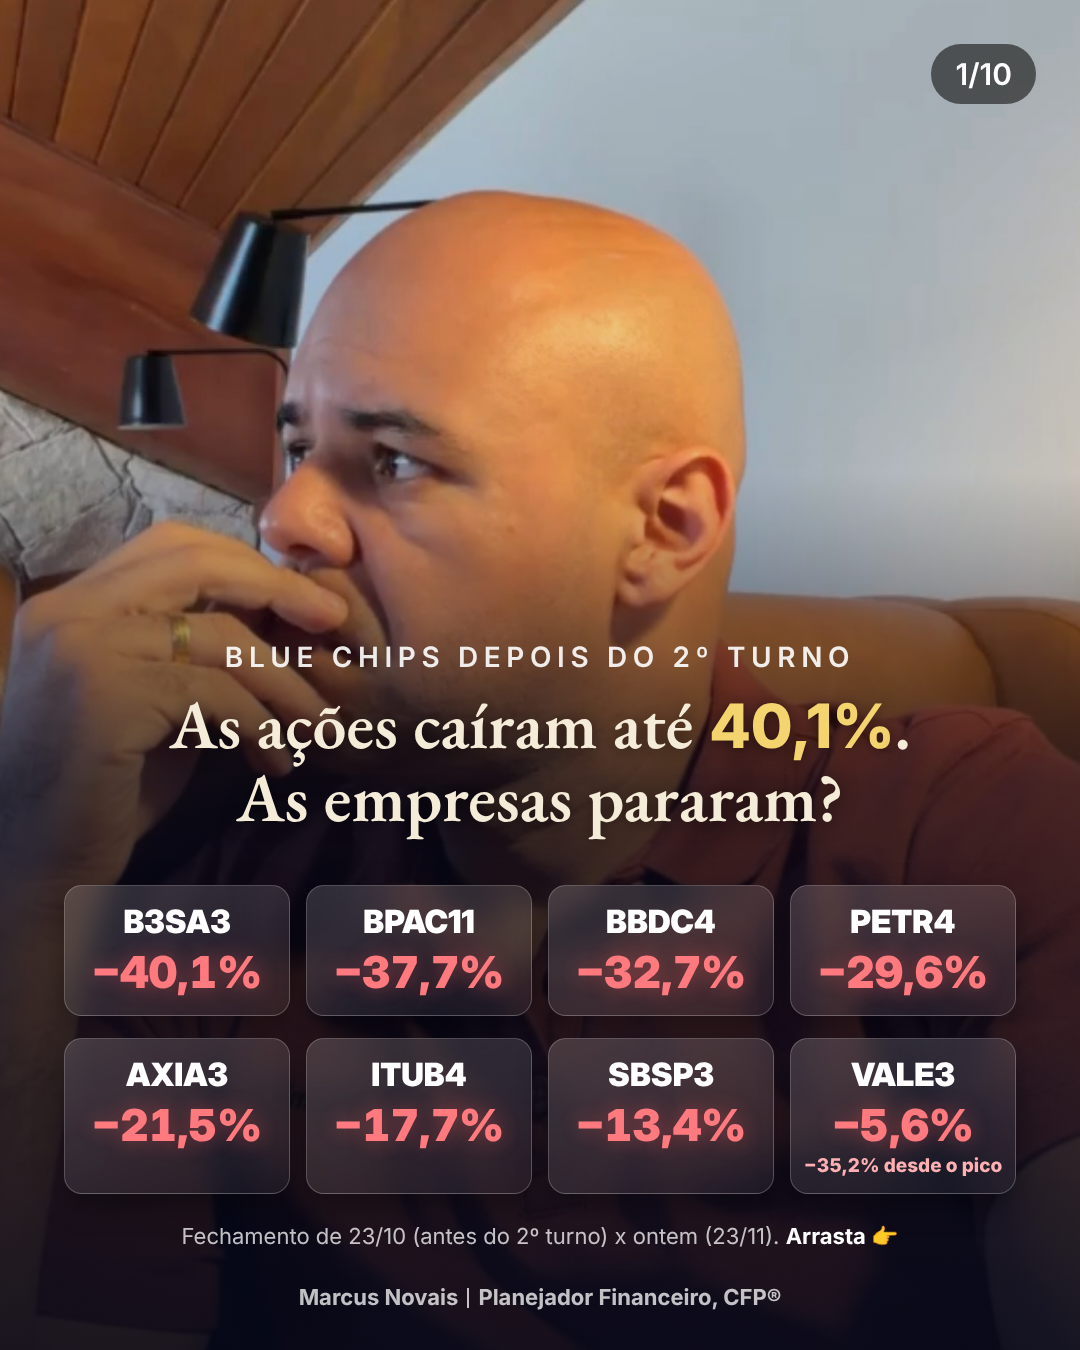
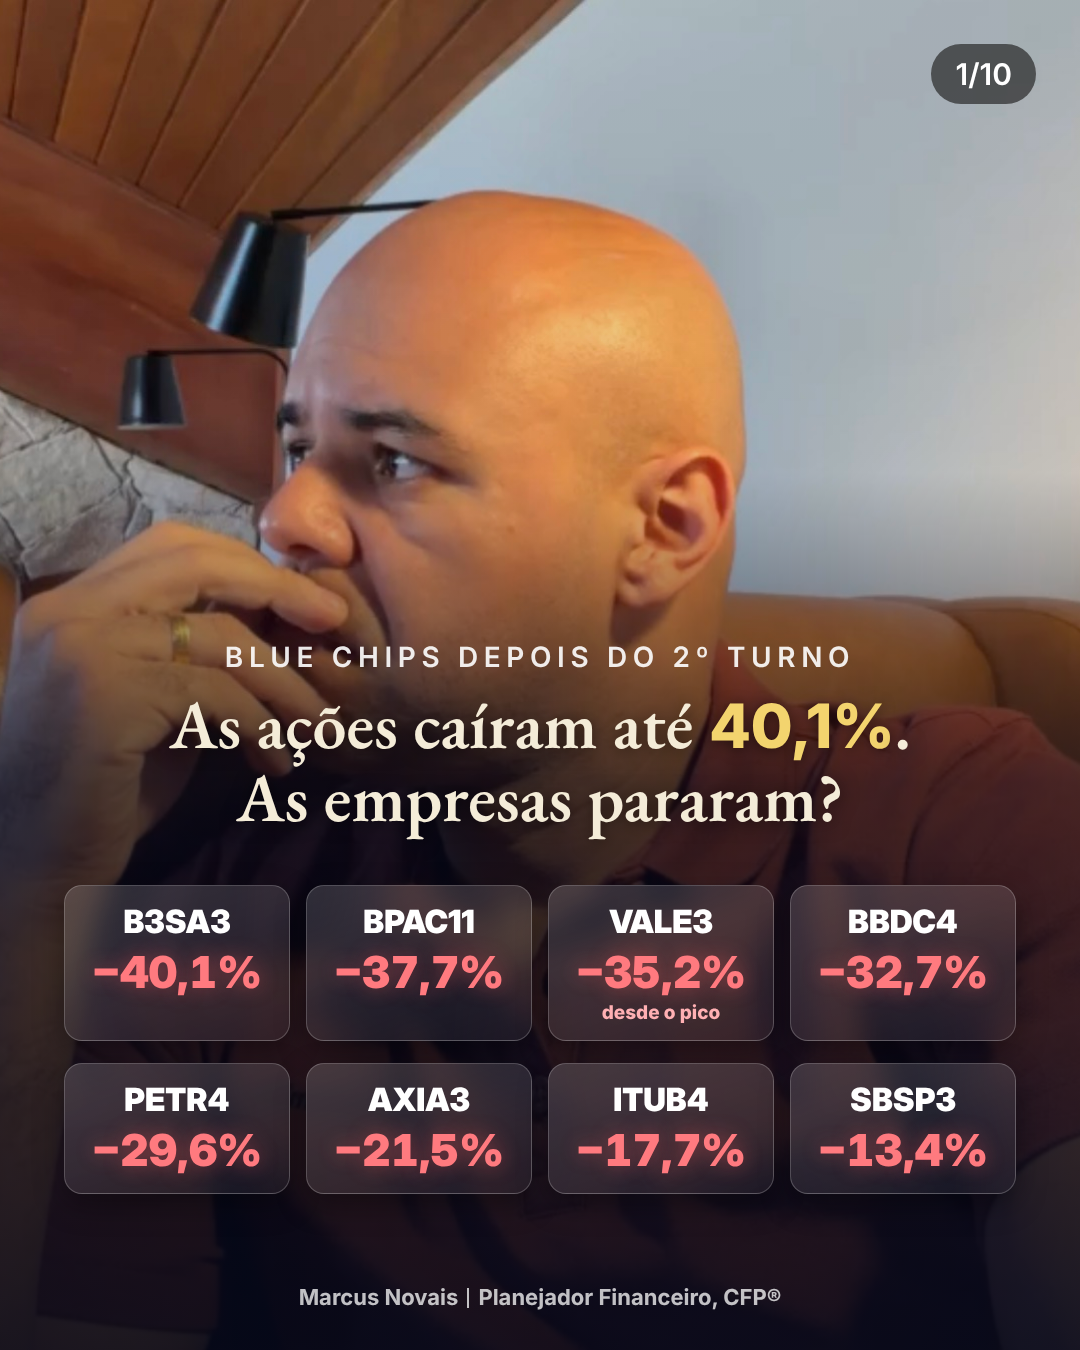
Carrossel blue chips: capa com Vale desde o pico, sem nota
Claude-Session: https://claude.ai/code/session_01JkBXj6tz5hpSkGAznkwYEm

Changed region(s): [[0.0611, 0.6533, 0.9472, 0.8711], [0.1833, 0.9022, 0.825, 0.9333]]

diff --git a/carrossel-bluechips-segundo-turno/slides.html b/carrossel-bluechips-segundo-turno/slides.html
@@ -115,12 +115,11 @@ function chart(t){
 }
 const S=[];
 // 1 capa
-const ord=E.map(e=>[e[0],st(e[0]).p2]).sort((x,y)=>x[1]-y[1]);
+const ord=E.map(e=>[e[0],INI[e[0]]?st(e[0]).y:st(e[0]).p2]).sort((x,y)=>x[1]-y[1]);
 S.push(`<div class="capa"><img class="ph" src="img/marcus-capa.jpg" style="position:absolute; inset:0; width:100%; height:100%; object-fit:cover; object-position:50% 30%">
  <div class="sh" style="position:absolute; inset:0; background:linear-gradient(180deg, rgba(5,9,26,.05) 0%, rgba(5,9,26,.08) 35%, rgba(5,9,26,.7) 58%, rgba(5,9,26,.9) 100%)"></div>
  <div class="big" style="top:640px"><div class="lab">Blue chips depois do 2º turno</div><div class="t">As ações caíram até <em>${pct(ord[0][1]).replace('−','')}</em>.<br>As empresas pararam?</div></div>
- <div class="grid8" style="top:885px">${ord.map(([t,v])=>`<div><div class="k">${t}</div><div class="v">${pct(v)}</div>${INI[t]?`<div class="pk">${pct(st(t).y)} desde o pico</div>`:''}</div>`).join('')}</div>
- <div class="note" style="top:1222px; color:rgba(255,255,255,.75)">Fechamento de 23/10 (antes do 2º turno) x ontem (23/11). <b style="color:#fff">Arrasta 👉</b></div>${foot}</div>`);
+ <div class="grid8" style="top:885px">${ord.map(([t,v])=>`<div><div class="k">${t}</div><div class="v">${pct(v)}</div>${INI[t]?`<div class="pk">desde o pico</div>`:''}</div>`).join('')}</div>${foot}</div>`);
 // 2-9 empresas
 E.forEach(([t,nm,img,prod,qq])=>{ const {a,z,pre,y,p2}=st(t);
   const ph=img=='bpac11'?`<div class="ph btg"><span>BTG Pactual</span></div>`:`<img class="ph" src="img/${img}.jpg" style="object-position:${img=='sbsp3'?'50% 10%':img=='bbdc4'?'30% 30%':'50% 50%'}">`;
